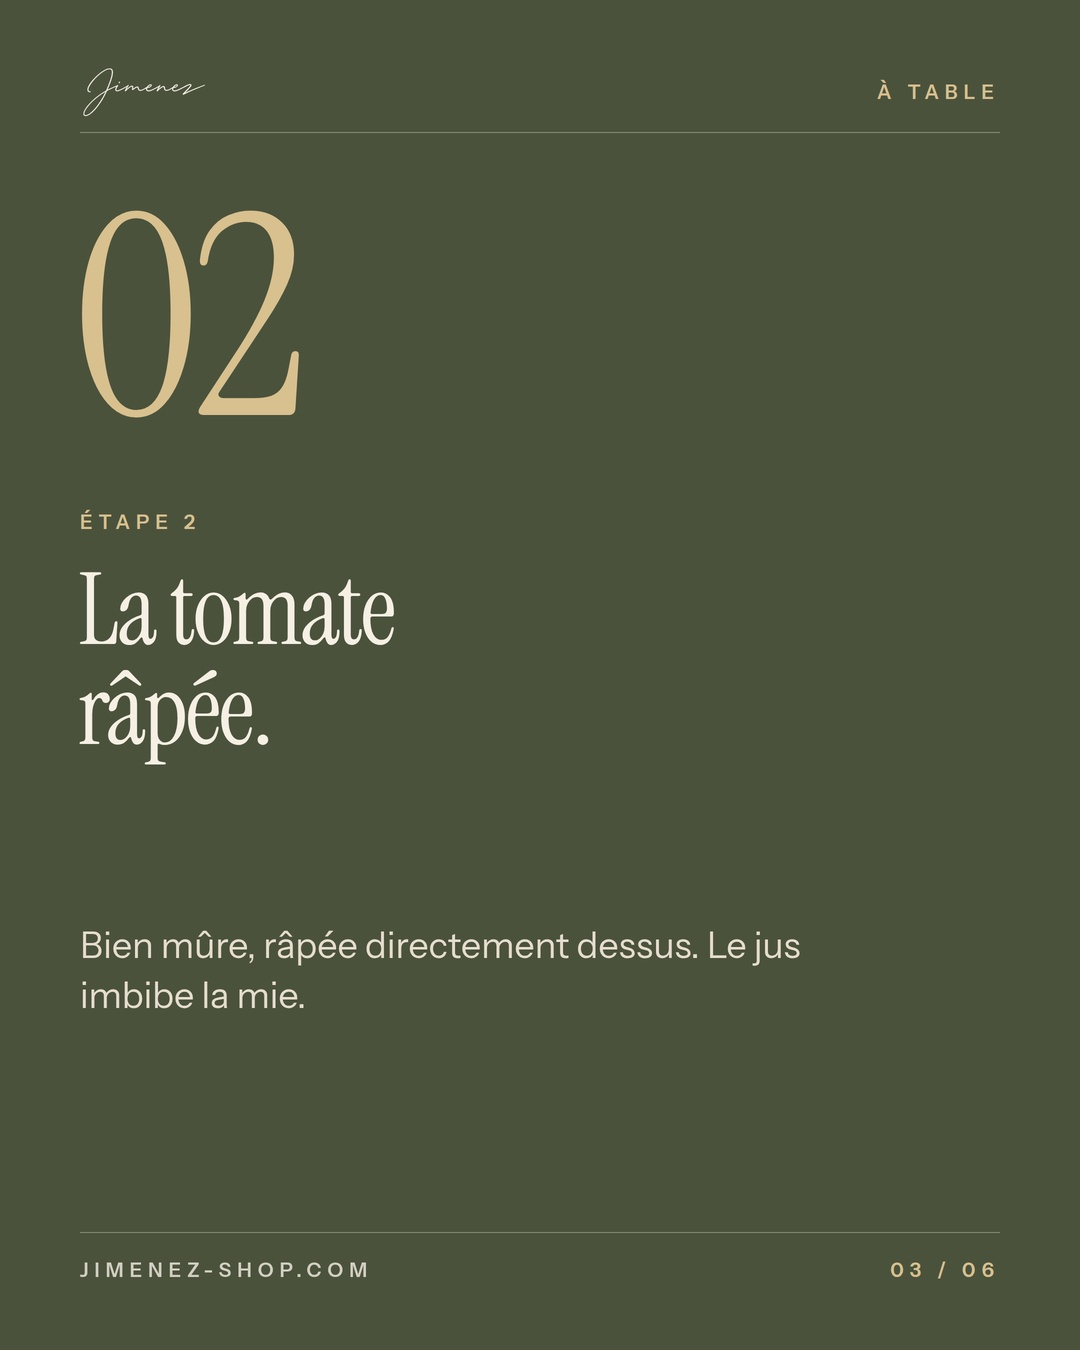
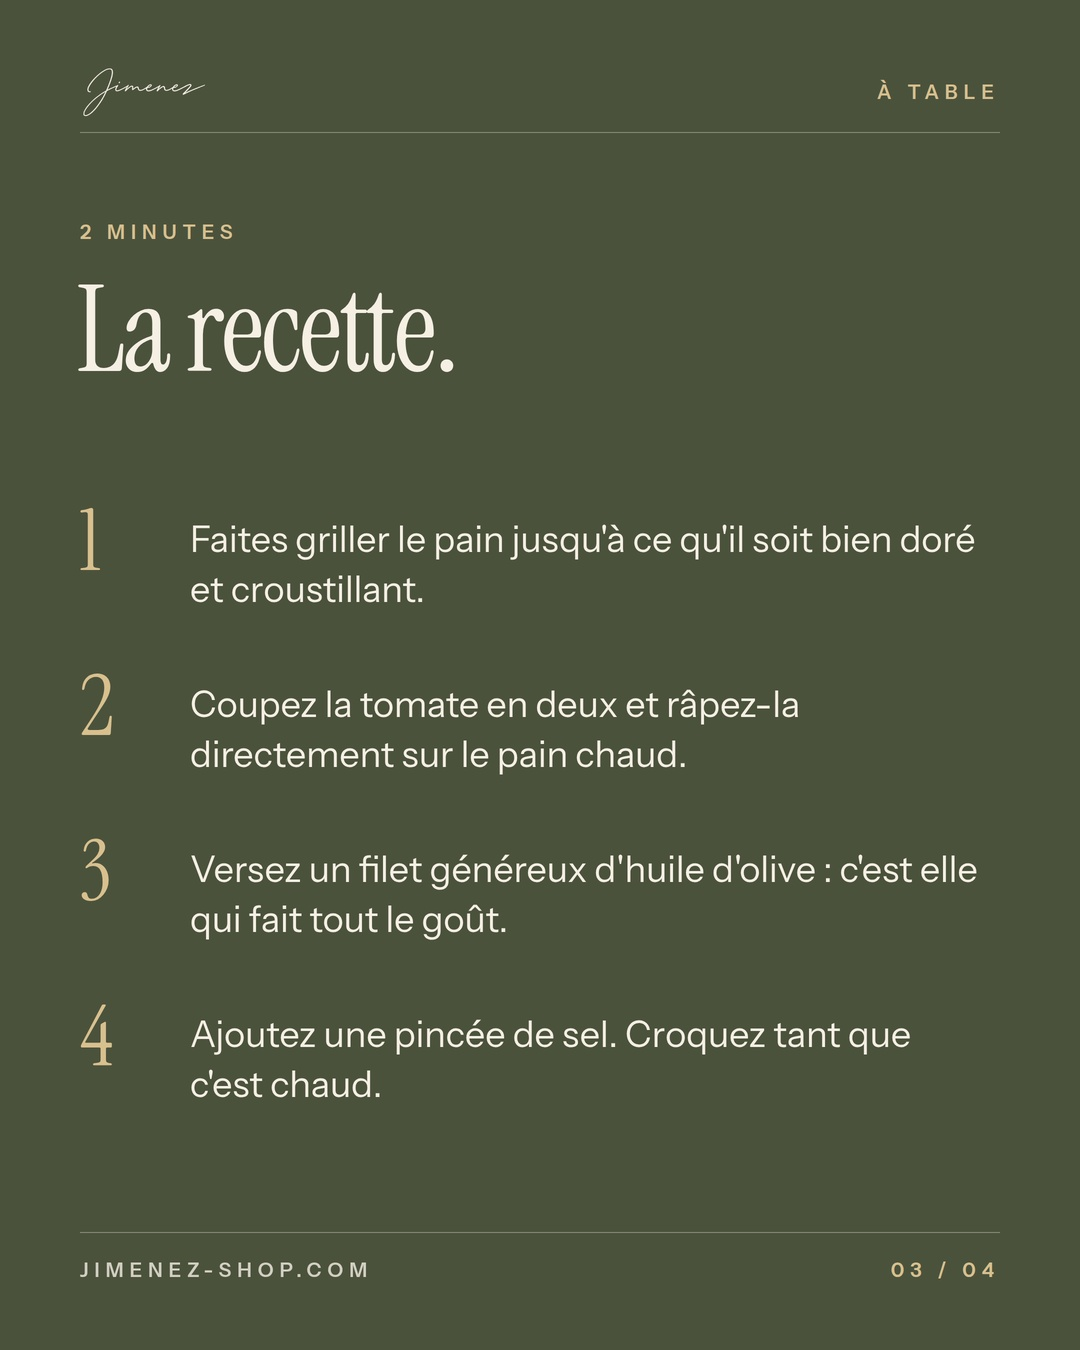
Calendrier v3 : pan con tomate refait (ingrédients + recette), J6 remplacé par « Une huile pour chaque moment »
Claude-Session: https://claude.ai/code/session_01UiVtPwDdPsmKbNcFJesaT8

diff --git a/instagram/video-source/cal3.py b/instagram/video-source/cal3.py
@@ -96,12 +96,19 @@ page('J2_carrousel_plats',[photo_dark('olives',1,7,S2,'Cinq idées','Ce qu\'un f
 page('J2_post_coffret',[P('trio',1,1,S3,'Hojiblanca · Arbosana · Picual','Trois huiles.<br>Laquelle pour vous ?')])
 page('J2_story_coupage',[SP('coupage','Picual & Arbequina','Ronde<br><span style="color:#4B523C">et équilibrée.</span>')],H=1920)
 # ===== J3
-page('J3_carrousel_recette',[P('ceramic',1,6,S2,'2 minutes · 4 ingrédients','Le pan<br>con tomate.'),
- typo(2,6,S2,'Étape 1','Le pain<br>bien doré.','Une belle tranche de pain de campagne, grillée jusqu\'à ce qu\'elle croustille.',num='01'),
- typo(3,6,S2,'Étape 2','La tomate<br>râpée.','Bien mûre, râpée directement dessus. Le jus imbibe la mie.',dark=True,num='02'),
- typo(4,6,S2,'Étape 3','Un filet<br>généreux.','D\'huile d\'olive vierge extra. C\'est elle qui fait tout le goût.',num='03'),
- typo(5,6,S2,'Étape 4','Une pincée<br>de sel.','Et c\'est prêt. Le petit-déjeuner de toute l\'Andalousie.',dark=True,num='04'),
- P('arbequina',6,6,S2,'Notre conseil','Avec l\'Arbequina<br>première récolte.',sub='Lien en bio')])
+ING=[('Le pain','Une belle tranche de pain de campagne'),('La tomate','Une tomate bien mûre'),('L\'huile','Huile d\'olive vierge extra'),('Le sel','Une pincée de fleur de sel')]
+ing='<div class="beige" style="position:absolute;inset:0;background:linear-gradient(#EFE1CD,#F4EADB)"></div>'+chrome(2,4,S2)+'<div class="k" style="position:absolute;left:80px;top:220px;color:#A88B57">Pour une tartine</div><div class="T" style="position:absolute;left:76px;top:270px;font-size:120px">Les ingrédients.</div>'
+for q,(a,b) in enumerate(ING):
+    y=520+q*150
+    ing+=f'<div style="position:absolute;left:80px;right:80px;top:{y}px;height:1px;background:rgba(31,36,28,.18)"></div><div class="T" style="position:absolute;left:80px;top:{y+34}px;font-size:64px">{a}</div><div class="p" style="position:absolute;left:470px;right:80px;top:{y+50}px;font-size:32px;color:#4B523C">{b}</div>'
+ing+='<div style="position:absolute;left:80px;right:80px;top:1120px;height:1px;background:rgba(31,36,28,.18)"></div>'
+STP=['Faites griller le pain jusqu\'à ce qu\'il soit bien doré et croustillant.','Coupez la tomate en deux et râpez-la directement sur le pain chaud.','Versez un filet généreux d\'huile d\'olive : c\'est elle qui fait tout le goût.','Ajoutez une pincée de sel. Croquez tant que c\'est chaud.']
+rec='<div style="position:absolute;inset:0;background:#4B523C"></div>'+chrome(3,4,S2,dark=True)+'<div class="k" style="position:absolute;left:80px;top:220px;color:#D8C08F">2 minutes</div><div class="T" style="position:absolute;left:76px;top:270px;font-size:120px;color:#F5EFE4">La recette.</div>'
+for q,t in enumerate(STP):
+    y=500+q*165
+    rec+=f'<div class="T" style="position:absolute;left:80px;top:{y}px;font-size:84px;color:#D8C08F">{q+1}</div><div class="p" style="position:absolute;left:190px;right:90px;top:{y+14}px;font-size:36px;color:#F5EFE4">{t}</div>'
+page('J3_carrousel_recette',[P('ceramic',1,4,S2,'2 minutes · 4 ingrédients','Le pan<br>con tomate.'),('',ing),('',rec),P('arbequina',4,4,S2,'Notre conseil','Avec l\'Arbequina<br>première récolte.',sub='Lien en bio')])
+
 page('J3_post_cadeau',[photo_dark('giftbox',1,1,'À offrir','Le coffret','Le cadeau qu\'on<br>ouvre à table.',op='55% 50%')])
 page('J3_story_eco',[SP('eco','Arbequina · Écologique','Fruitée<br><span style="color:#4B523C">et vive.</span>')],H=1920)
 # ===== J4
@@ -124,11 +131,11 @@ page('J5_carrousel_choisir',sl)
 page('J5_post_ceramique',[P('ceramic',1,1,S3,'Arbequina','La bouteille<br>qu\'on garde<br>sur la table.')])
 page('J5_story_arbequina',[SP('arbequina','Arbequina · Première récolte','Pomme verte<br><span style="color:#4B523C">et amande.</span>')],H=1920)
 # ===== J6
-DG=[('Versez','Un fond<br>de verre.','Une cuillère à soupe, dans un petit verre.'),('Réchauffez','Dans<br>la main.','Quelques secondes. Les arômes se réveillent.'),('Sentez','Herbe,<br>pomme, amande.','Fermez les yeux. Tout est là.'),('Goûtez','Une petite<br>gorgée.','En aspirant un peu d\'air, pour qu\'elle s\'ouvre.'),('Ça pique ?','C\'est<br>bon signe.','Le piquant en gorge, c\'est la fraîcheur.')]
-sl=[('background:#4B523C',chrome(1,7,S4,dark=True)+'<div class="k" style="position:absolute;left:80px;top:420px;color:#D8C08F">En 5 étapes</div><div class="T" style="position:absolute;left:76px;top:470px;font-size:170px;color:#F5EFE4">Déguster<br>comme<br><span style="color:#D8C08F">un pro.</span></div><div class="p" style="position:absolute;left:80px;top:1060px;font-size:30px;color:#E6DDCE">Glissez →</div>')]
-for j,(k,t,d) in enumerate(DG): sl.append(typo(j+2,7,S4,k,t,d,dark=j%2==1,num=f'0{j+1}'))
-sl.append(photo_dark('giftbox',7,7,S4,'Pour s\'entraîner','Nos coffrets,<br>sur le site.',op='55% 50%',sub='Lien en bio'))
-page('J6_carrousel_degustation',sl)
+MO=[('arbequina','8 h · Le petit-déjeuner','Sur le pain<br>encore tiède.'),('eco','12 h · Le déjeuner','Sur une salade<br>bien fraîche.'),('trio','19 h · L\'apéritif','Du pain,<br>trois huiles.'),('coupage','20 h · Le dîner','Sur les légumes<br>rôtis.')]
+sl=[photo_dark('olives',1,6,S2,'Du matin au soir','Une huile<br>pour chaque<br>moment.',op='50% 55%')]
+for q,(key,k,t) in enumerate(MO): sl.append(P(key,q+2,6,S2,k,t))
+sl.append(photo_dark('giftbox',6,6,S2,'Et pour offrir','Le coffret,<br>sur le site.',op='55% 50%',sub='Lien en bio · Livraison en France'))
+page('J6_carrousel_moments',sl)
 page('J6_post_eco',[P('eco',1,1,S3,'Arbequina · Écologique','Fruitée, vive,<br>herbacée.')])
 page('J6_story_cadeau',[story_dark('giftbox','À offrir','Le coffret<br>prestige.',op='55% 50%')],H=1920)
 # ===== J7

diff --git a/instagram/video-source/plan.py b/instagram/video-source/plan.py
@@ -10,7 +10,7 @@ C={
 'J4_post_olive':"Avant l'huile, il y a l'olive 🫒\nCueillie en Andalousie, pressée à froid, pour garder tout son fruité.\n\nLien en bio · Livraison en France\n\n#olives #andalousie #huiledolive #terroir #arbequina",
 'J5_carrousel_choisir':"Pour tous les jours, pour les connaisseurs, pour comparer ou pour offrir : il y a forcément une huile pour vous 🫒\n\nGlissez, et dites-nous laquelle 👇\nToute la collection, lien en bio.\n\n#huiledolive #epiceriefine #arbequina #coupage #idéecadeau",
 'J5_post_ceramique':"Trop belle pour finir au placard ✨\n\nNotre Arbequina dans sa bouteille en céramique, à poser sur la table… et à verser sans compter.\nLien en bio.\n\n#arbequina #ceramique #decotable #huiledolive #idéecadeau",
-'J6_carrousel_degustation':"Versez, réchauffez, sentez, goûtez… et si ça pique un peu en gorge, c'est le signe d'une huile fraîche 👌\n\nÀ tester ce soir. Enregistrez pour ne pas oublier 🔖\n\n#degustation #huiledolive #gastronomie #foodlover #epiceriefine",
+'J6_carrousel_moments':"Du pain grillé du matin aux légumes rôtis du soir : il y a toujours une bonne raison de sortir la bouteille 🫒\n\nEt vous, c'est quoi votre moment ? 👇\nToutes nos huiles, lien en bio · Livraison en France\n\n#huiledolive #cuisinemaison #apero #andalousie #epiceriefine",
 'J6_post_eco':"Fruitée, vive, avec des notes d'herbe fraîche 🌿\n\nNotre Arbequina écologique, pour la salade du midi comme pour les légumes du soir.\nLien en bio.\n\n#arbequina #ecologique #huiledolive #salade #cuisinemaison",
 'J7_carrousel_erreurs':"On l'a tous fait au moins une fois 🙈\n\nGlissez pour savoir comment garder votre huile d'olive au meilleur de son goût. Enregistrez ce post 🔖\nNos huiles d'Andalousie, lien en bio.\n\n#astucecuisine #huiledolive #conservation #cuisinemaison #epiceriefine",
 'J7_post_coupage':"Le caractère de la Picual, la douceur de l'Arbequina : réunies dans une seule bouteille 🫒\n\nRonde, équilibrée, parfaite au quotidien.\nLien en bio.\n\n#coupage #picual #arbequina #huiledolive #andalousie",

diff --git a/instagram/calendrier-v3/legendes.md b/instagram/calendrier-v3/legendes.md
@@ -57,7 +57,7 @@ Images : J2_story_coupage.jpg
 (story, sans légende)
 
 ## 2026-10-09 à 12:30 — carrousel — J3_carrousel_recette
-Images : J3_carrousel_recette_1.jpg, J3_carrousel_recette_2.jpg, J3_carrousel_recette_3.jpg, J3_carrousel_recette_4.jpg, J3_carrousel_recette_5.jpg, J3_carrousel_recette_6.jpg
+Images : J3_carrousel_recette_1.jpg, J3_carrousel_recette_2.jpg, J3_carrousel_recette_3.jpg, J3_carrousel_recette_4.jpg
 
 > Croustillant, juteux, doré : le pan con tomate, c'est 2 minutes, 4 ingrédients… et un filet généreux d'huile d'olive 🍅🫒
 > 
@@ -130,14 +130,15 @@ Images : J5_story_arbequina.jpg
 
 (story, sans légende)
 
-## 2026-10-12 à 12:30 — carrousel — J6_carrousel_degustation
-Images : J6_carrousel_degustation_1.jpg, J6_carrousel_degustation_2.jpg, J6_carrousel_degustation_3.jpg, J6_carrousel_degustation_4.jpg, J6_carrousel_degustation_5.jpg, J6_carrousel_degustation_6.jpg, J6_carrousel_degustation_7.jpg
+## 2026-10-12 à 12:30 — carrousel — J6_carrousel_moments
+Images : J6_carrousel_moments_1.jpg, J6_carrousel_moments_2.jpg, J6_carrousel_moments_3.jpg, J6_carrousel_moments_4.jpg, J6_carrousel_moments_5.jpg, J6_carrousel_moments_6.jpg
 
-> Versez, réchauffez, sentez, goûtez… et si ça pique un peu en gorge, c'est le signe d'une huile fraîche 👌
+> Du pain grillé du matin aux légumes rôtis du soir : il y a toujours une bonne raison de sortir la bouteille 🫒
 > 
-> À tester ce soir. Enregistrez pour ne pas oublier 🔖
+> Et vous, c'est quoi votre moment ? 👇
+> Toutes nos huiles, lien en bio · Livraison en France
 > 
-> #degustation #huiledolive #gastronomie #foodlover #epiceriefine
+> #huiledolive #cuisinemaison #apero #andalousie #epiceriefine
 
 ## 2026-10-12 à 19:00 — post — J6_post_eco
 Images : J6_post_eco.jpg
